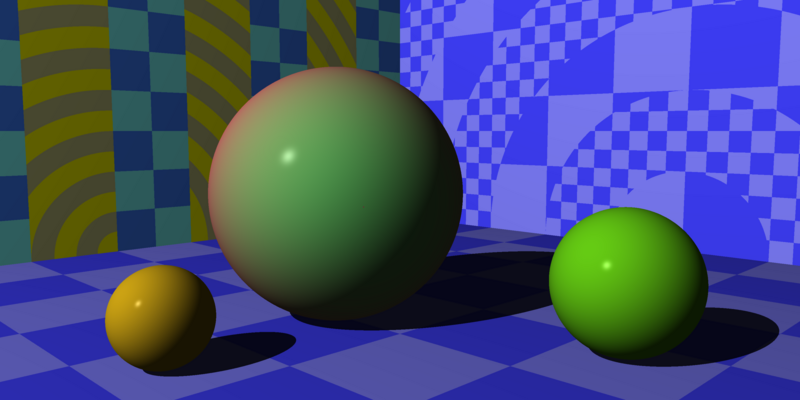
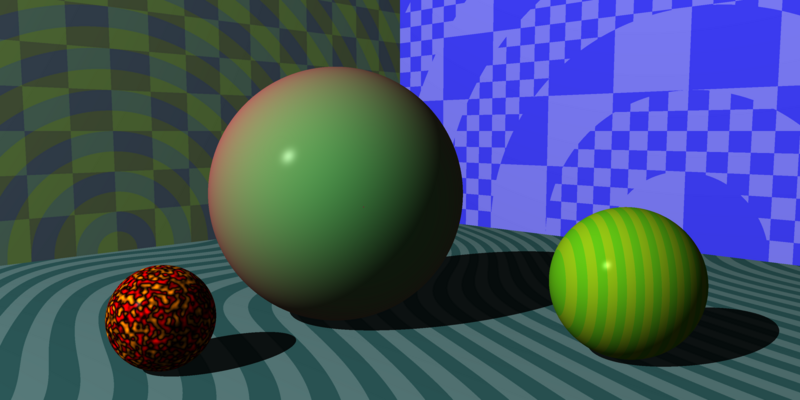
perturbed kind of works if you know how to use it added noise pattern type

diff --git a/src/pattern.rs b/src/pattern.rs
@@ -119,30 +119,23 @@ pub mod pattern {
                     a.add(&b).multiply(0.5)
                 },
                 PatternType::Perturbed(a, scale) => {
-                    let pscale = 1.0;
-                    let x = pattern_point.x * pscale;
-                    let y = pattern_point.y * pscale;
-                    let z = pattern_point.z * pscale;
+                    let x = pattern_point.x;
+                    let y = pattern_point.y;
+                    let z = pattern_point.z;
                     let noise_x = (NOISE_GENERATOR.get_noise_3d(x, y, z) as f64) * scale;
                     let noise_y = (NOISE_GENERATOR.get_noise_3d(x, y, z + 1.0) as f64) * scale;
                     let noise_z = (NOISE_GENERATOR.get_noise_3d(x, y, z + 2.0) as f64) * scale;
-                    println!("pattern_point: {:.10},{:.10},{:.10}", pattern_point.x,pattern_point.y,pattern_point.z);
-                    println!("noise_x: {:.10}, noise_y: {:.10}, noise_z: {:.10}", noise_x, noise_y, noise_z);
                     let new_x = pattern_point.x + noise_x;
                     let new_y = pattern_point.y + noise_y;
                     let new_z = pattern_point.z + noise_z;
                     let new_point = Tuple::new(new_x, new_y, new_z, pattern_point.w);
-                    let o = (pattern_point.x.floor() + pattern_point.y.floor() + pattern_point.z.floor()) as i32 % 2;
-                    let n = (new_point.x.floor() + new_point.y.floor() + new_point.z.floor()) as i32 % 2;
-                    println!("new_point: {:.10},{:.10},{:.10}\to: {}\tn: {}", new_point.x,new_point.y,new_point.z,o,n);
                     a.pattern_at(&new_point)
                 },
                 PatternType::Noise(a,b, scale) => {
                     let noise = NOISE_GENERATOR.get_noise_3d(pattern_point.x, pattern_point.y, pattern_point.z);
                     let noise = noise as f64 * scale;
                     if noise <= 0.0 {
-                        let noise = -noise;
-                        a.pattern_at(&pattern_point).multiply(noise)
+                        a.pattern_at(&pattern_point).multiply(-noise)
                     } else {
                         b.pattern_at(&pattern_point).multiply(noise)
                     }
